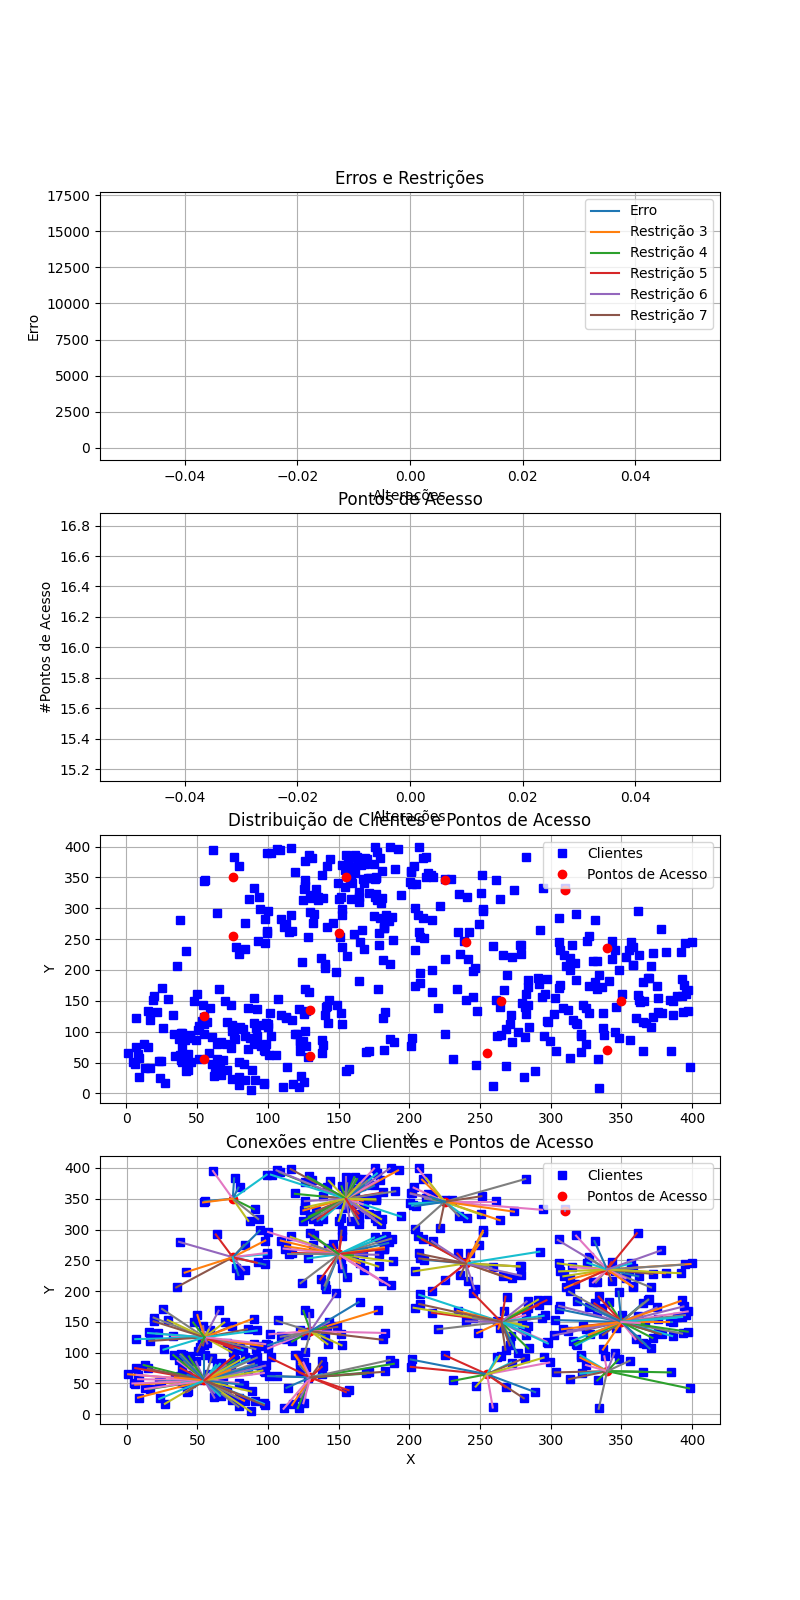
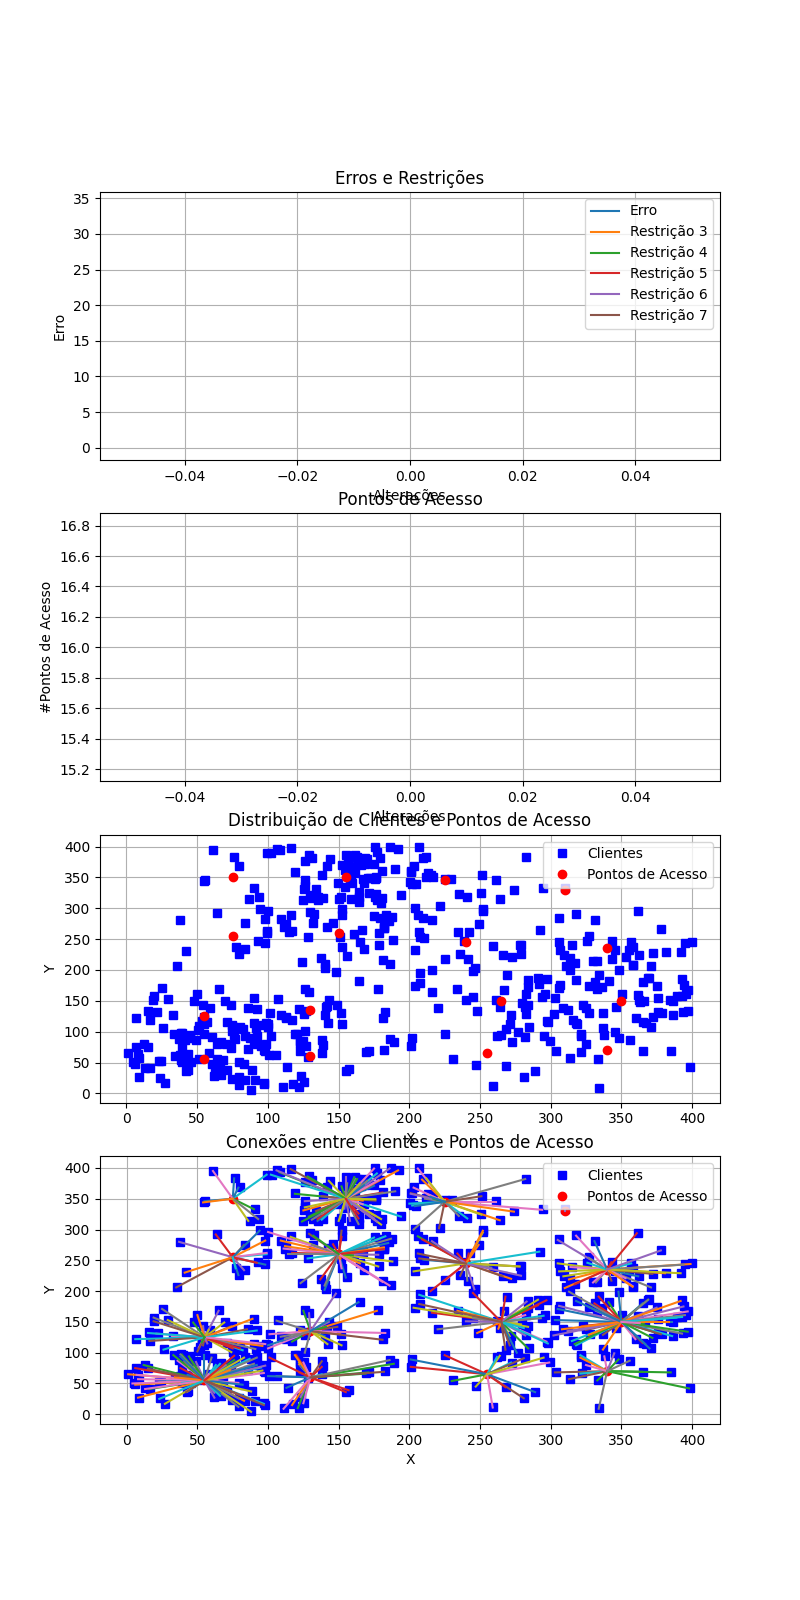
add: distance function adjust

Changed region(s): [[0.0312, 0.125, 0.125, 0.2188]]

diff --git a/1 entrega/mop_solution/solution.py b/1 entrega/mop_solution/solution.py
@@ -65,22 +65,22 @@ def sol_zero(dados):
                     dados['cliente_por_PA'][i, pa_index] = 1
 
     # Atualizar dados
-    dados['dist_cliente_PA'] = calcular_distancias_cliente_PA(coord_clientes, possiveis_coord_PA)
+    cliente_por_PA = dados["cliente_por_PA"]
+    dados['dist_cliente_PA'] = calcular_distancias_cliente_PA(coord_clientes, possiveis_coord_PA, cliente_por_PA)
     dados['uso_PAs'] = uso_PAs
 
     return dados
 
 
-def calcular_distancias_cliente_PA(coord_clientes, coord_PAs):
+def calcular_distancias_cliente_PA(coord_clientes, coord_PAs, cliente_por_PA):
     num_clientes = len(coord_clientes)
     num_PAs = len(coord_PAs)
     distancias = np.zeros((num_clientes, num_PAs))
 
     for i, cliente in enumerate(coord_clientes):
         for j, pa in enumerate(coord_PAs):
-            distancias[i, j] = np.linalg.norm(cliente - pa)
-
-    return distancias
+            distancias[i, j] = np.linalg.norm(cliente - pa) * cliente_por_PA[i][j]
+    return distancias / len(coord_clientes)
 
 def encontrar_divisores(numero):
     if numero <= 0:
